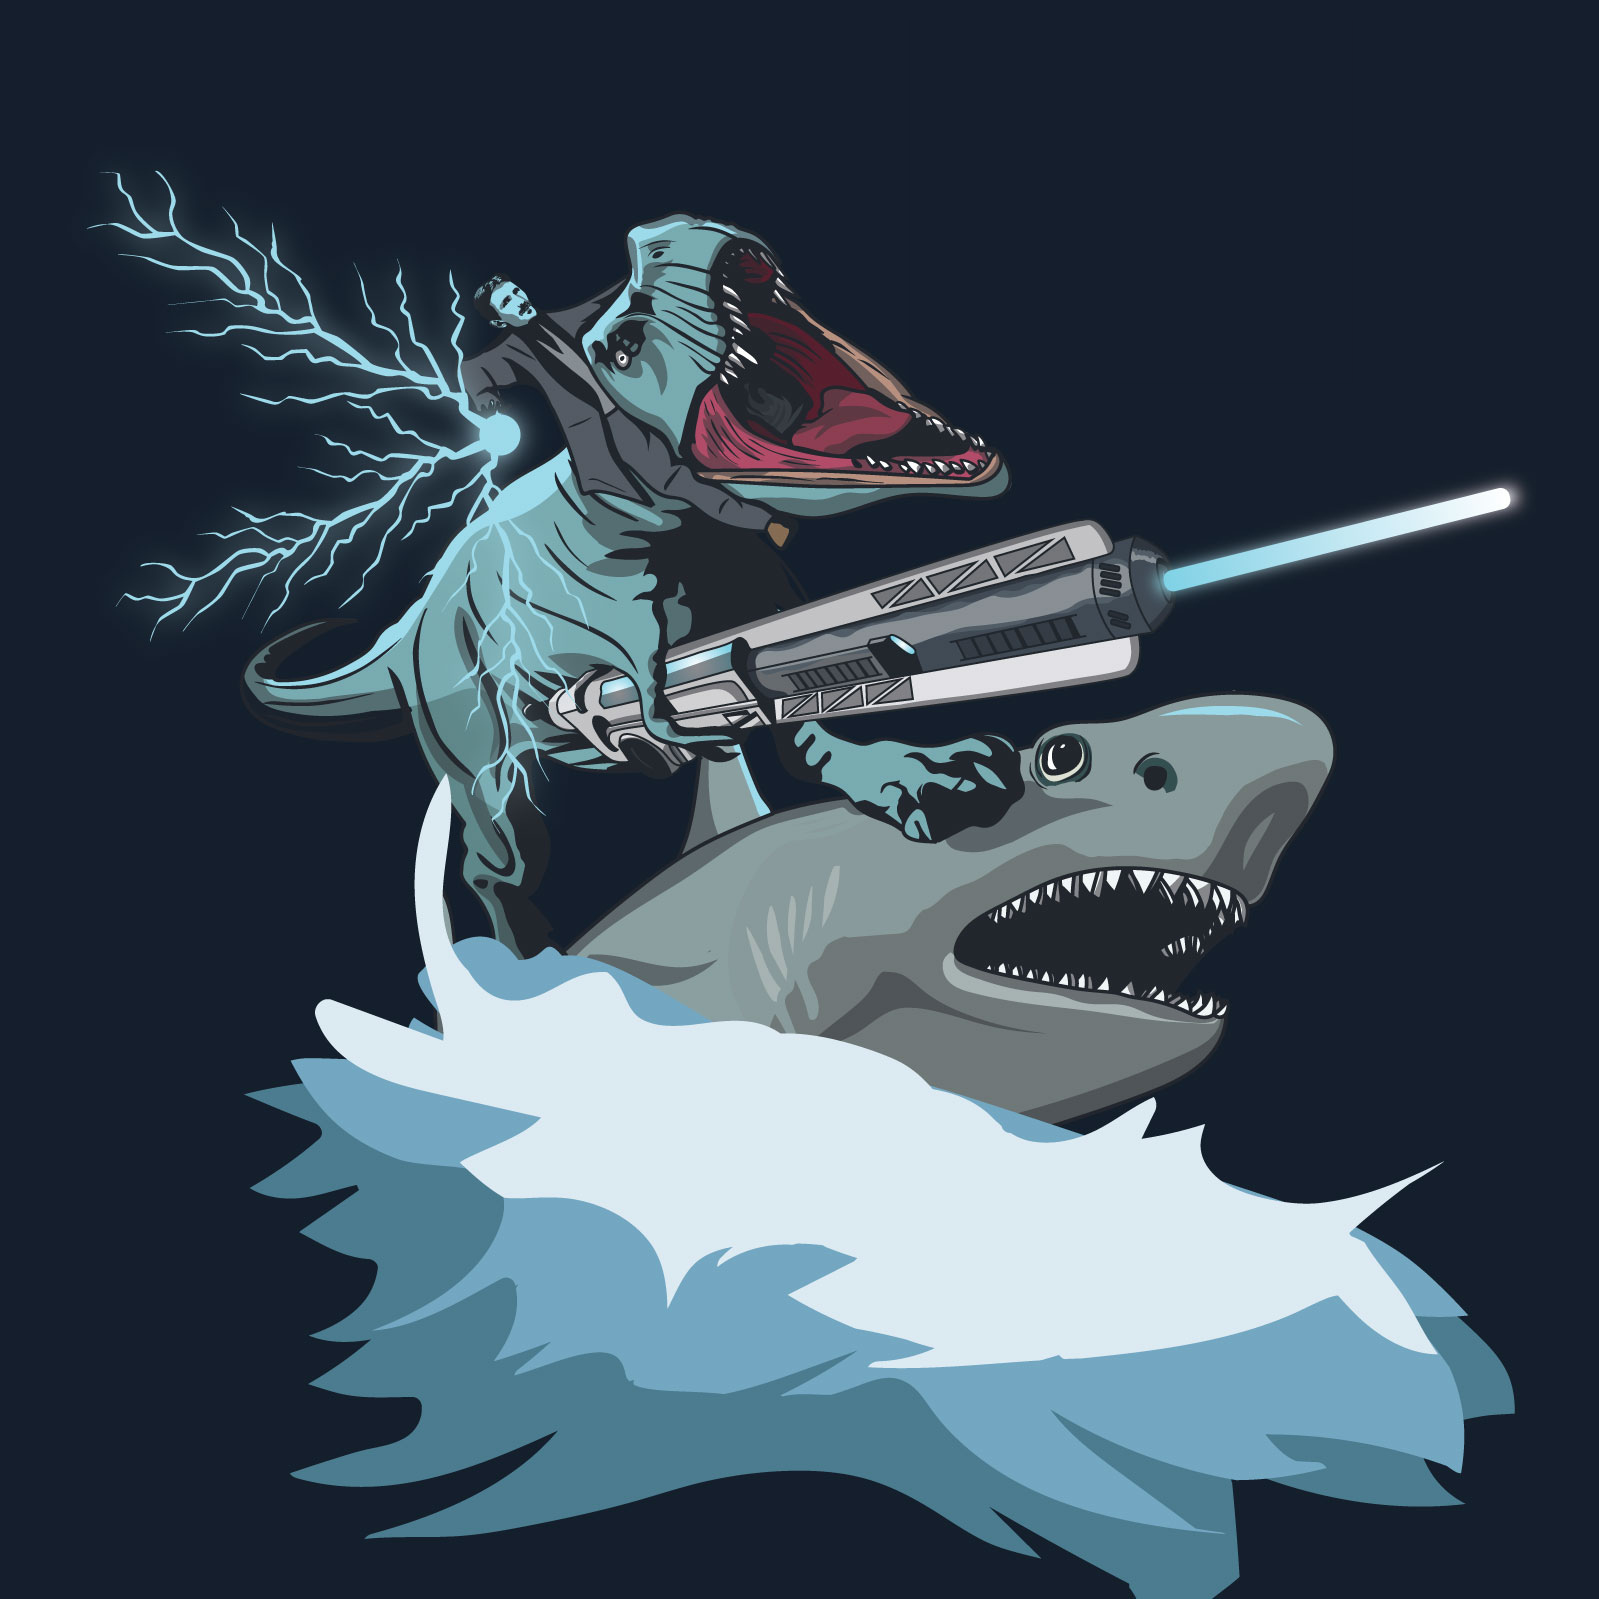
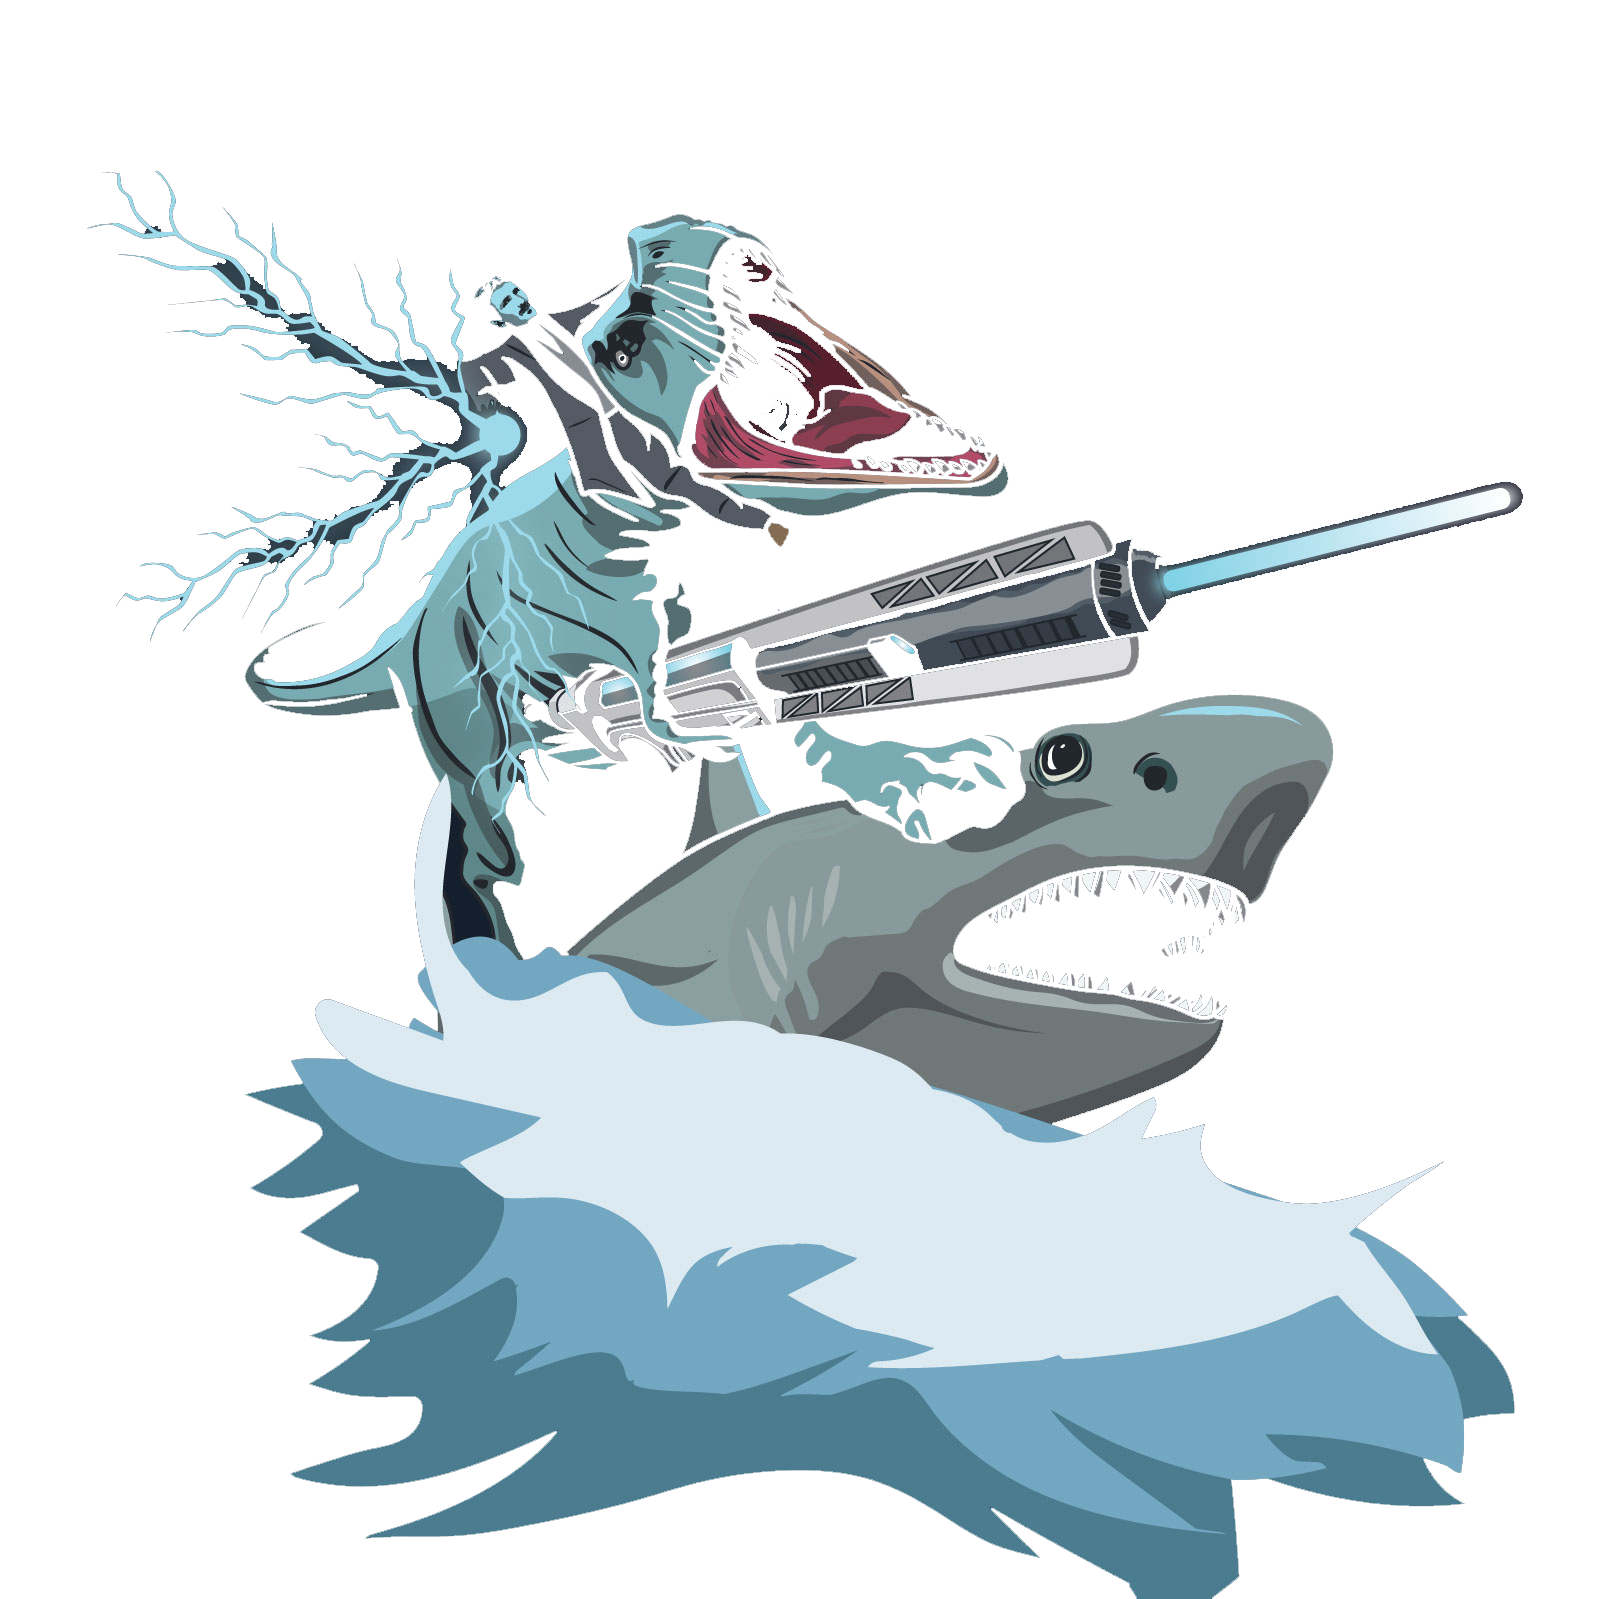
404 page add

diff --git a/assets/css/main.css b/assets/css/main.css
@@ -416,7 +416,7 @@ header {
 
 .not-found-container {
     position: relative;
-    padding-top: 180px;
+    padding-top: 220px;
     display: flex;
     flex-direction: column;
     justify-content: center;
@@ -442,6 +442,7 @@ header {
     letter-spacing: 0em;
     text-align: center;
     color: #fff;
+    z-index: 1;
 }
 
 .not-found-container p {
@@ -452,16 +453,20 @@ header {
     letter-spacing: 0em;
     text-align: left;
     color: #fff;
+    z-index: 1;
 }
 
 .not-found-container a {
     margin-top: 30px;
+    margin-bottom: 40px;
+    z-index: 1;
 }
 
 .not-found-image {
     position: absolute;
-    right: 0;
-    top: 30%;
+    z-index: 0;
+    left: 0;
+    top: 25%;
     width: 500px;
     height: 500px;
 

diff --git a/404.php b/404.php
@@ -3,6 +3,7 @@
 ?>
 
 <div class="not-found-container">
+    
     <h1>Error 404</h1>
     <h2>Damn, you sir are pushing things far! 
         <br>
@@ -10,7 +11,7 @@
     <p>But guess what you didn’t find?</p>
     <p>That page you were looking for. Smarty-pants!</p>
     <a href="<?php _e(get_site_url()); ?>" class="btn">go back to home</a>
-    <!--<div class="not-found-image"></div>-->
+    <div class="not-found-image"></div>
 </div>
 
 <?php get_footer('privacy-policy'); ?>
